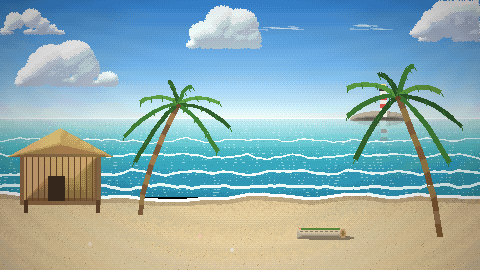
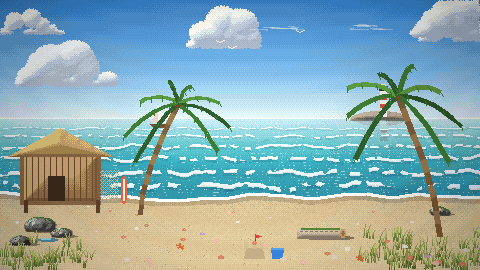
Itoeva 2: Berge, Strand, Ebene, Sportplatz, Lager detailreicher
Berge mit Felsform aus Hoehenfeld, Bach, Almhuette; Strand mit gebrochenen Wellen,
Gezeitensteinen, Segelboot, Sandburg; Sportplatz mit Abrieb, Rissen, Kreide; Lager mit
Milchstrasse, Kessel, Holzstapel.

Claude-Session: https://claude.ai/code/session_01MzJQnTg9L1M6D2qVp5Yh1D

diff --git a/tools/world-art/places/mountains.py b/tools/world-art/places/mountains.py
@@ -3,33 +3,37 @@ eine Schlucht, Tannen an den Haengen, Felsweg mit Steinbank und Wegkreuz aus Hol
 import sys
 sys.path.insert(0, __file__.rsplit('/', 2)[0])
 import numpy as np
+import nature as N
 from kit import Scene, W, H
 from px import rgb, lerp, noise
 
 
 def peaks(s, x0, x1, base, peak, seed, col, lit, snow, rough=0.3):
-    """Bergkette: Flanken zum Licht (links) hell, Schnee auf den Hoehen, schraege Felsrinnen."""
-    from scipy.ndimage import gaussian_filter1d
+    """Bergkette: Felsform als Hoehenfeld aus Kegeln je Gipfel plus Rauschen - Licht von links
+    oben faellt auf Grate und Flanken, Rinnen und Schneefelder folgen der Form."""
+    from scipy.ndimage import gaussian_filter1d, gaussian_filter
     top = s.ridge(x0, x1, base, peak, seed, rough, scale=70)
     m = (s.yy >= top[None, :]) & (s.yy <= base)
-    st = gaussian_filter1d(top, 4)
-    tops = [x for x in range(2, W - 2) if st[x] < st[x - 1] and st[x] <= st[x + 1] and st[x] < base - 10]
+    st = gaussian_filter1d(top, 3)
+    tops = [x for x in range(2, W - 2) if st[x] < st[x - 1] and st[x] <= st[x + 1] and st[x] < base - 8]
     tops = tops or [W // 2]
-    px = np.array(tops)
-    wob = (noise(W, H, 6, seed + 3, 2) - 0.5) * 14
-    dist = np.abs(s.xx[..., None] + wob[..., None] - px[None, None, :])
-    owner = px[np.argmin(dist, axis=-1)]
-    lit_face = (s.xx + wob) < owner
-    shade_d = np.clip((s.yy - top[None, :]) / (base - peak), 0, 1)
-    light = np.where(lit_face, 0.85, 0.35) - shade_d * 0.25 + (noise(W, H, 3, seed + 9, 2) - 0.5) * 0.25
-    q = np.clip(np.floor(np.clip(light, 0, 1) * 3 + s.by * 0.9) / 3, 0, 1)
-    slope = np.where(lit_face, 1.0, -1.0)
-    s.cv.paint(m, lerp(rgb(col) * 0.8, rgb(lit), q[..., None]))
-    gully = m & (((s.xx + s.yy * slope * 0.8).astype(int) % 9) == 0) & (noise(W, H, 4, seed + 7, 2) > 0.5)
-    s.cv.paint(gully, s.cv.c * 0.85)
+    B = np.full((H, W), -1e3)
+    for px in tops:
+        py = st[px]
+        R = (base - py) * 1.3
+        B = np.maximum(B, R - np.sqrt((s.xx - px) ** 2 + ((s.yy - py) * 0.7) ** 2))
+    B = B + (noise(W, H, 10, seed + 5, 3) - 0.5) * 10 + (noise(W, H, 3, seed + 6, 2) - 0.5) * 4
+    B = gaussian_filter(B, 0.8)
+    gy, gx = np.gradient(B)
+    nz = 1.6
+    nrm = np.sqrt(gx ** 2 + gy ** 2 + nz ** 2)
+    lam = np.clip((-gx * -0.75 + -gy * -0.5 + nz * 0.45) / nrm, 0, 1)
+    q = np.clip(np.floor(lam * 4 + s.by * 0.9) / 4, 0, 1)
+    s.cv.paint(m, lerp(rgb(col) * 0.72, rgb(lit), q[..., None]))
     depth_in = s.yy - top[None, :]
-    snowm = m & (depth_in < 5 + noise(W, H, 4, seed + 5, 2) * 18) & (s.yy < peak + (base - peak) * 0.5)
-    s.cv.paint(snowm, lerp(rgb(snow) * 0.86, rgb('#ffffff'), q[..., None]))
+    snowm = m & ((depth_in < 4 + noise(W, H, 4, seed + 7, 2) * 14) | ((lam > 0.62) & (gy < 0.4))) & \
+            (s.yy < peak + (base - peak) * 0.5)
+    s.cv.paint(snowm, lerp(rgb(snow) * 0.8, rgb('#ffffff'), q[..., None]))
     s.paint(m & ~np.roll(m, 1, axis=0) & (s.yy < peak + (base - peak) * 0.5), '#ffffff')
     return m
 
@@ -45,10 +49,13 @@ def build(out):
         y = 150 + (x * 17) % 22
         s.tree(x, y, 18 + (x * 7) % 10, seed=x, kind='pine', crown=('#2e4a44', '#3e5e50', '#56785c', '#7a9670'))
     # Wasserfall rechts in die Schlucht
-    fall = s.rect(380, 96, 392, 176)
-    s.paint(fall, '#c8e4f0')
-    s.paint(fall & ((s.yy + s.xx * 3) % 5 == 0), '#ffffff')
-    s.paint(fall & (s.xx == 380), '#8ab0c8')
+    wob = (noise(W, H, 3, 12, 2) - 0.5) * 4
+    fall = (np.abs(s.xx - 386 - (s.yy - 96) * 0.03 + wob) < 3 + (s.yy - 96) * 0.06) & (s.yy >= 96) & (s.yy <= 176)
+    s.cv.paint(fall, lerp(rgb('#a8cce0'), rgb('#ffffff'), (((s.yy * 2 + s.xx) % 6) < 2)[..., None] * 0.8))
+    s.paint(fall & (((s.yy + s.xx * 3) % 9) == 0), '#7aa8c8')
+    for k in range(30):
+        q = np.random.default_rng(k)
+        s.paint(s.ellipse(386 + q.uniform(-14, 14), 174 + q.uniform(-6, 4), q.uniform(1, 3), q.uniform(1, 2)), '#f4fafc')
     s.paint(s.ellipse(386, 178, 18, 5), '#e8f4fa')
     s.hills([(-40, 520, 140, '#3e5e48', '#5a7a5a', 64, 0.15)])
     s.HY = 170
@@ -63,6 +70,26 @@ def build(out):
     for _ in range(260):
         x, y = int(rr.uniform(0, W)), int(rr.uniform(176, 268))
         s.paint(s.rect(x, y, x, y), ['#f4f0e0', '#9a88e0', '#e8c040'][int(rr.integers(0, 3))])
+    rng = np.random.default_rng(33)
+    # Bach vom Wasserfall durch die Wiese
+    u, z = s.ground_uv()
+    brook = (s.yy > 172) & (np.abs(u - (0.9 - 0.25 * np.log(np.maximum(z, 1)) * 2 + 0.08 * np.sin(z * 2))) < 0.05 + 0.01 * z)
+    s.cv.paint(brook, lerp(rgb('#5a8ab8'), rgb('#a8d0e8'), noise(W, H, 2, 9, 2)[..., None]))
+    s.paint(brook & ~np.roll(brook, 1, axis=0), '#e8f4fa')
+    # Almhuette mit Holzzaun links hinten
+    s.paint(s.rect(70, 168, 104, 188), '#7a5a3a')
+    for y in range(170, 188, 3):
+        s.paint(s.rect(70, y, 104, y), '#5a3e28')
+    s.paint(s.poly([(64, 170), (87, 154), (110, 170)]), '#6a5a52')
+    s.paint(s.m().line([(64, 170), (87, 154)]).a > 0, '#a89a90')
+    s.paint(s.rect(82, 176, 90, 188), '#3a2618')
+    s.paint(s.rect(74, 174, 79, 179), '#e8c070')
+    s.paint(s.rect(93, 174, 98, 179), '#4a5a72')
+    s.paint(s.rect(98, 148, 101, 160), '#5a5048')
+    s.fence(192, 20, 150, s=0.6)
+    # Einzelne Tannen vorn als Rahmen
+    for x, b, h in ((18, 240, 110), (468, 250, 130), (440, 200, 60)):
+        N.pine(s.cv, x, b, h, rng)
     seat = s.stone_seat(330, 222, s=1.0)
     s.walk(farY=196, nearY=248, farLeft=60, farRight=420, nearLeft=30, nearRight=440, farH=40, nearH=60)
     s.spot('BENCH', seat, 330, 228)

diff --git a/tools/world-art/places/beach.py b/tools/world-art/places/beach.py
@@ -5,12 +5,13 @@ sys.path.insert(0, __file__.rsplit('/', 2)[0])
 import numpy as np
 from kit import Scene, W, H
 from px import rgb, lerp, noise, dramp
+import nature as N
 
 
 def build(out):
     s = Scene('beach', horizon=118, seed=36)
     s.sky(top='#3a8ad8', mid='#7ab8e8', low='#d8f0f4', warm='#fff4e0')
-    s.water(118, 196, deep='#2a8aa8', mid='#3aa8b8', light='#7ad0d0', sky='#c8eef0')
+    s.water(118, 206, deep='#2a8aa8', mid='#3aa8b8', light='#7ad0d0', sky='#c8eef0')
     # Felsinsel mit Leuchtturm
     s.shade(s.ellipse(380, 120, 30, 9) & (s.yy <= 120), ['#5a5248', '#7a7064', '#9a9080', '#bcb09c'])
     s.paint(s.rect(380, 90, 386, 116), '#f4f0e8')
@@ -20,10 +21,21 @@ def build(out):
     s.paint(s.rect(381, 84, 385, 87), '#ffe890')
     s.reflect(118, 30)
     # Wellen, die nach vorn breiter werden, und Gischt an der Kante
-    for k, y in enumerate((140, 156, 172, 186)):
+    rng = np.random.default_rng(36)
+    for k, y in enumerate((128, 136, 146, 158, 172, 186)):
         wn = noise(W, 4, 20, 80 + k, 3)[1]
-        crest = (np.abs(s.yy - (y + (wn[None, :] - 0.5) * 6)) < 0.6 + k * 0.3) & (s.yy > 118)
-        s.paint(crest, '#e8fafa')
+        yy_ = y + (wn[None, :] - 0.5) * (3 + k)
+        crest = (np.abs(s.yy - yy_) < 0.5 + k * 0.35) & (s.yy > 118)
+        broken = noise(W, H, 3 + k, 90 + k, 2) > 0.42
+        s.paint(crest & broken, '#e8fafa')
+        trough = (s.yy > yy_ + 1) & (s.yy < yy_ + 2 + k * 0.6) & broken
+        s.cv.c[trough] *= 0.9
+    # Segelboot und Moewen
+    s.paint(s.poly([(150, 124), (166, 124), (163, 127), (153, 127)]), '#6a4a3a')
+    s.paint(s.poly([(158, 123), (158, 106), (166, 122)]), '#f8f4ec')
+    s.paint(s.poly([(157, 123), (157, 110), (151, 122)]), '#e8d8c0')
+    for x, y in ((220, 40), (232, 46), (300, 30)):
+        s.paint(s.m().line([(x - 4, y), (x, y + 2), (x + 4, y)]).a > 0, '#f4f4f4')
     sand_top = 196 + (noise(W, 4, 40, 85, 2)[1] - 0.5) * 8
     sand = s.yy >= sand_top[None, :]
     t = np.clip((s.yy - 196) / 74, 0, 1)
@@ -44,12 +56,41 @@ def build(out):
     s.shade(roof, ['#8a7040', '#aa8a50', '#c8a864', '#e0c47a'], light=(-0.6, -1))
     for x in (24, 96):
         s.paint(s.rect(x, 200, x + 3, 212), '#5a3e28')
+    # Fischernetz und Surfbrett an der Huette, Steine mit Gezeitentuempel
+    net = s.rect(100, 170, 118, 200)
+    s.paint(net & (((s.xx + s.yy) % 4 == 0) | ((s.xx - s.yy) % 4 == 0)), '#c8b898')
+    s.paint(s.ellipse(124, 190, 3.5, 14), '#e8603a')
+    s.paint(s.ellipse(124, 190, 1, 13), '#f4f0e0')
+    for x, y, rx in ((40, 230, 16), (62, 236, 10), (20, 244, 12), (440, 214, 9)):
+        N.stone(s.cv, x, y, rx, rx * 0.6, rng, cols=('#3e3a36', '#5a5650', '#7a746a', '#9a9488', '#bcb6a8'), wet=True, moss='#4a6a3a')
+    s.paint(s.ellipse(48, 240, 10, 2.2), '#5a9ab0')
+    s.paint(s.ellipse(46, 239, 6, 1), '#a8d8e8')
+    # Duenengras
+    N.grass_tufts(s.cv, 236, 270, rng, 70, cols=('#6a7a3a', '#8a9a48', '#a8b05a', '#c8c878'), x0=360, x1=480, scale_y=lambda y: 2.0)
+    N.grass_tufts(s.cv, 240, 270, rng, 40, cols=('#6a7a3a', '#8a9a48', '#a8b05a', '#c8c878'), x0=0, x1=90, scale_y=lambda y: 2.0)
+    # Sandburg und Eimer
+    s.paint(s.poly([(244, 258), (264, 258), (262, 248), (246, 248)]), '#d8bc88')
+    for x in (246, 255, 262):
+        s.paint(s.rect(x - 2, 242, x + 1, 248), '#e0c494')
+        s.paint(s.rect(x - 2, 241, x - 2, 241), '#e0c494')
+    s.paint(s.m().line([(255, 242), (255, 234)]).a > 0, '#6a4a3a')
+    s.paint(s.poly([(255, 234), (261, 236), (255, 238)]), '#e8403a')
+    s.paint(s.poly([(272, 258), (282, 258), (283, 248), (271, 248)]), '#3a8ae8')
+    s.paint(s.rect(271, 248, 283, 249), '#5aa8f8')
     # Palmen
     s.palm(140, 214, 110, seed=1, lean=0.35)
     s.palm(440, 236, 140, seed=2, lean=-0.3)
     # Muscheln und Seesterne
-    for x, y, c in ((200, 236, '#f4c8b0'), (232, 250, '#f4f0e0'), (300, 230, '#e88a6a'), (90, 244, '#f4e0c8')):
-        s.paint(s.ellipse(x, y, 2.5, 1.6), c)
+    for _ in range(40):
+        x, y = rng.uniform(10, 470), rng.uniform(206, 268)
+        c = ['#f4c8b0', '#f4f0e0', '#e88a6a', '#f4e0c8', '#c8a0c0'][int(rng.integers(0, 5))]
+        sz = 0.8 + (y - 206) / 40
+        s.paint(s.ellipse(x, y, 1.6 * sz, 1.0 * sz), c)
+        s.paint(s.rect(int(x), int(y), int(x), int(y)), lerp(rgb(c), rgb('#ffffff'), 0.4))
+    for x, y in ((180, 246), (360, 258)):
+        for k in range(5):
+            a = k / 5 * 2 * np.pi - np.pi / 2
+            s.paint(s.m().line([(x, y), (x + np.cos(a) * 4, y + np.sin(a) * 2.5)], 2).a > 0, '#e8703a')
     seat = s.log_seat(320, 238, s=1.0, bark=('#8a7a68', '#a89880', '#c4b49a', '#dccaa8'))
     s.walk(farY=206, nearY=250, farLeft=30, farRight=430, nearLeft=20, nearRight=440, farH=44, nearH=60)
     s.spot('BENCH', seat, 320, 244)

diff --git a/tools/world-art/places/sport.py b/tools/world-art/places/sport.py
@@ -4,7 +4,9 @@ import sys
 sys.path.insert(0, __file__.rsplit('/', 2)[0])
 import numpy as np
 from kit import Scene, W, H
-from px import rgb, lerp
+from px import rgb, lerp, noise
+import nature as N
+import town as T
 
 
 def build(out):
@@ -35,7 +37,17 @@ def build(out):
     court = s.ground_poly([(-1.0, 1.0), (1.05, 1.0), (1.05, 2.9), (-1.0, 2.9)])
     u, z = s.ground_uv()
     col = lerp(np.array([0.70, 0.40, 0.32]), np.array([0.80, 0.52, 0.40]), np.clip((z - 1) / 2, 0, 1)[..., None])
+    # Belag mit Abrieb, Flicken, Rissen, Laub und Kreide
+    wear = noise(W, H, 8, 51, 3)
+    col = col * (0.9 + 0.2 * wear[..., None])
+    scuff = (np.abs(u - 0.02) < 0.35) & (np.abs(z - 1.95) < 0.5)
+    col = np.where(scuff[..., None], col * 1.06, col)
     s.cv.paint(court, col)
+    s.cv.paint(court & (noise(W, H, 3, 52, 2) > 0.78), col * 0.88)
+    crack = court & (np.abs(np.sin(u * 9 + np.sin(z * 4) * 1.5)) < 0.015) & (z < 2.4)
+    s.cv.paint(crack, col * 0.65)
+    crack2 = court & (np.abs(u + 0.6 + (z - 1.3) * 0.4 + np.sin(z * 9) * 0.03) < 0.006)
+    s.cv.paint(crack2, col * 0.65)
     line = np.zeros((H, W), bool)
     for (a, b) in [((-0.95, 1.05), (1.0, 1.05)), ((-0.95, 2.85), (1.0, 2.85)), ((-0.95, 1.05), (-0.95, 2.85)),
                    ((1.0, 1.05), (1.0, 2.85)), ((0.02, 1.05), (0.02, 2.85))]:
@@ -43,7 +55,27 @@ def build(out):
     # Korbraum und Mittelkreis
     line |= s.m().line([s.project(0.55, 2.85), s.project(0.55, 2.3), s.project(0.85, 2.3), s.project(0.85, 2.85)]).a > 0
     ring = (np.hypot((u - 0.02) / 0.25, (z - 1.95) / 0.25) < 1) & ~(np.hypot((u - 0.02) / 0.22, (z - 1.95) / 0.22) < 1)
-    s.paint((line | ring) & court, '#f4ece0')
+    lines_m = (line | ring) & court
+    s.paint(lines_m, '#f4ece0')
+    s.cv.paint(lines_m & (noise(W, H, 2, 53, 2) > 0.7), col * 1.1)
+    rng = np.random.default_rng(22)
+    ys, xs = np.nonzero(court)
+    for i in rng.integers(0, len(xs), 70):
+        c = rgb(['#c8783a', '#a85a2a', '#d8a050', '#7a8a3a'][int(rng.integers(0, 4))])
+        s.cv.c[ys[i], xs[i]] = c
+    # Kreidezeichnung (Himmel und Hoelle) und Springseil
+    for k in range(4):
+        a, b = s.project(-0.75, 1.15 + k * 0.12), s.project(-0.55, 1.15 + k * 0.12)
+        s.paint(s.m().line([a, b]).a > 0, ['#f4ece0', '#f0c0d0', '#c0d8f0', '#f4ece0'][k])
+    a = s.project(-0.75, 1.15); b = s.project(-0.75, 1.51); c_ = s.project(-0.55, 1.51); d = s.project(-0.55, 1.15)
+    s.paint(s.m().line([a, b]).a > 0 | (s.m().line([c_, d]).a > 0), '#f4ece0')
+    pts = [s.project(0.3 + 0.1 * np.sin(t * 6), 1.2 + t * 0.3) for t in np.linspace(0, 1, 12)]
+    s.paint(s.m().line(pts).a > 0, '#3a8ae8')
+    # Trinkflasche und Sporttasche am Rand
+    bx_, by_ = s.project(-1.15, 1.4)
+    s.paint(s.rect(int(bx_), int(by_) - 7, int(bx_) + 2, int(by_)), '#3a8ae8')
+    s.paint(s.ellipse(bx_ + 12, by_ - 4, 8, 4), '#c84a3a')
+    s.paint(s.rect(int(bx_) + 6, int(by_) - 6, int(bx_) + 18, int(by_) - 6), '#2a2a2a')
     # Korb hinten rechts
     px, py = s.project(0.7, 2.95)
     s.paint(s.rect(int(px) + 6, int(py) - 48, int(px) + 8, int(py)), '#2e5a4a')
@@ -60,7 +92,7 @@ def build(out):
     s.paint(s.m().line([(bx - 4, by - 4), (bx + 4, by - 4)]).a > 0 & s.ellipse(bx, by - 4, 4.5, 4.5), '#4a2010')
     # Laternen, Bank am Rand, Vordergrund
     for x, y in ((40, 200), (452, 196)):
-        s.lamp(x, y, s=0.95)
+        T.ornate_lamp(s, x, y, h=52, banner='#3e5a8a' if x < 200 else '#c8644a')
     s.bench(30, 250, s=1.1)
     s.flowerbed(-10, 120, 270, s=1.4, seed=21)
     s.foliage('br', 80, 22)

diff --git a/tools/world-art/places/camp.py b/tools/world-art/places/camp.py
@@ -4,13 +4,22 @@ import sys
 sys.path.insert(0, __file__.rsplit('/', 2)[0])
 import numpy as np
 from kit import Scene, W, H
-from px import rgb, lerp, glow
+from px import rgb, lerp, glow, noise
+import nature as N
 
 
 def build(out):
     s = Scene('camp', horizon=150, seed=35)
     s.sky(top='#0e1630', mid='#1e2c58', low='#3a4a78', warm='#5a5a88', clouds=False)
     rr = np.random.default_rng(3)
+    # Milchstrasse als schraeges Band mit vielen kleinen Sternen
+    band = np.abs((s.yy - 20) - (s.xx - 100) * 0.35) < 22
+    mw = band & (noise(W, H, 6, 41, 3) > 0.5) & (s.yy < 130)
+    s.cv.c[mw] = lerp(s.cv.c[mw], rgb('#4a5a8a'), 0.35)
+    for _ in range(260):
+        x, y = int(rr.uniform(0, W)), int(rr.uniform(0, 125))
+        if band[y, x] or rr.random() < 0.3:
+            s.cv.c[y, x] = lerp(s.cv.c[y, x], rgb('#e0e8ff'), rr.uniform(0.3, 0.9))
     for _ in range(120):
         x, y = int(rr.uniform(0, W)), int(rr.uniform(0, 120))
         s.cv.c[y, x] = rgb(['#d8e0ff', '#ffffff', '#ffe8c0'][int(rr.integers(0, 3))])
@@ -24,7 +33,30 @@ def build(out):
                    kind='pine', crown=('#0e1a22', '#16262e', '#22363a', '#2e4644'))
     s.grass(152, base=('#1e2e26', '#26382a', '#304430', '#3c5236'), haze='#2a3a4a', flowers=False)
     s.tent(130, 200, w=90, h=58, cloth=('#5a3a2a', '#7a5032', '#9a683e', '#b8844e'))
+    # Schlafsack im Zelt, Flicken, Wimpel an der Stange
+    s.paint(s.poly([(124, 200), (128, 186), (134, 186), (138, 200)]), '#3a5a8a')
+    s.paint(s.rect(150, 176, 158, 182), '#9a5a3a')
+    s.paint(s.rect(150, 176, 158, 176), '#c88a5a')
+    s.paint(s.poly([(130, 136), (142, 139), (130, 142)]), '#e8b440')
     s.campfire(256, 224, s=1.7)
+    # Dreibein mit Kessel ueber dem Feuer, Holzstapel, Becher
+    for dx in (-14, 0, 14):
+        s.paint(s.m().line([(256 + dx, 226), (256, 186)]).a > 0, '#4a3020')
+    s.paint(s.m().line([(256, 186), (256, 196)]).a > 0, '#2a2a2a')
+    pot = s.ellipse(256, 201, 6, 5)
+    s.shade(pot, ['#1a1a1e', '#2e2e34', '#4a4a52', '#6a6a74'])
+    s.paint(s.ellipse(256, 197, 5, 1.2), '#5a3a20')
+    for k in range(4):
+        s.paint(s.rect(255 + (k % 2), 190 - k * 2, 255 + (k % 2), 190 - k * 2), '#8a8a9a')
+    for k in range(6):
+        y = 238 - (k // 3) * 5
+        x = 300 + (k % 3) * 9 + (k // 3) * 4
+        s.paint(s.rect(x, y - 4, x + 8, y), '#6a4a30')
+        s.paint(s.ellipse(x + 8, y - 2, 2, 2), '#c89a68')
+        s.paint(s.rect(x + 8, y - 2, x + 8, y - 2), '#8a6040')
+    for x, c in ((226, '#c84a3a'), (284, '#3a6aa8')):
+        s.paint(s.rect(x, 232, x + 3, 236), c)
+        s.paint(s.rect(x + 4, 233, x + 4, 234), c)
     seat = s.log_seat(330, 214, s=1.0)
     s.log_seat(200, 244, s=0.9)
     # Rucksack und Laterne

diff --git a/tools/world-art/places/plains.py b/tools/world-art/places/plains.py
@@ -5,6 +5,7 @@ sys.path.insert(0, __file__.rsplit('/', 2)[0])
 import numpy as np
 from kit import Scene, W, H
 from px import rgb, lerp, noise
+import nature as N
 
 
 def build(out):
@@ -36,6 +37,23 @@ def build(out):
         s.shade(m, ['#8a6a2a', '#b08a3a', '#d0a850', '#ecc870'], seed=x)
         s.paint(s.ellipse(x - r * 0.5, y - r, r * 0.5, r * 0.8) & m, '#c89a48')
         s.paint(s.ellipse(x - r * 0.5, y - r, r * 0.25, r * 0.4) & m, '#a8802e')
+    rng = np.random.default_rng(34)
+    # Ferne Gehoefte, Baumgruppen, Windrad
+    for x, y in ((60, 146), (400, 148)):
+        s.house(x, y - 5, 8, 5, roof='#a84a36', wall='#e8d8b8', k=0.9, rng=rng)
+        for k in range(3):
+            N.leaf_mass(s.cv, x + 14 + k * 5, y - 2, 3.5, rng, cols=('#3a4a2a', '#4e5e30', '#66763a', '#7e8e48', '#98a058', '#b0b070'))
+    s.paint(s.rect(452, 118, 453, 148), '#e8e0d0')
+    for a in (0.3, 2.4, 4.5):
+        s.paint(s.m().line([(452.5, 118), (452.5 + np.cos(a) * 10, 118 + np.sin(a) * 10)]).a > 0, '#f4f0e8')
+    # Feldsteine, Disteln, Mohn und Kornblumen
+    for x, y, rx in ((360, 236, 8), (60, 250, 11), (200, 196, 5)):
+        N.stone(s.cv, x, y, rx, rx * 0.6, rng, moss='#8a8a4a')
+    N.flowers(s.cv, 160, 268, rng, 120, 'poppy', patches=6)
+    N.flowers(s.cv, 160, 268, rng, 90, 'bell', patches=5)
+    N.grass_tufts(s.cv, 170, 270, rng, 300, cols=('#8a6a2a', '#a8883a', '#c8a850', '#e8d080'))
+    for x, y in ((150, 60), (162, 64), (340, 44)):
+        s.paint(s.m().line([(x - 3, y), (x, y + 1), (x + 3, y)]).a > 0, '#3a3a3a')
     seat = s.log_seat(150, 224, s=1.0, bark=('#4a3626', '#6a4c34', '#8a6646', '#a8805a'))
     s.walk(farY=192, nearY=248, farLeft=50, farRight=430, nearLeft=20, nearRight=450, farH=40, nearH=60)
     s.spot('BENCH', seat, 150, 232)
